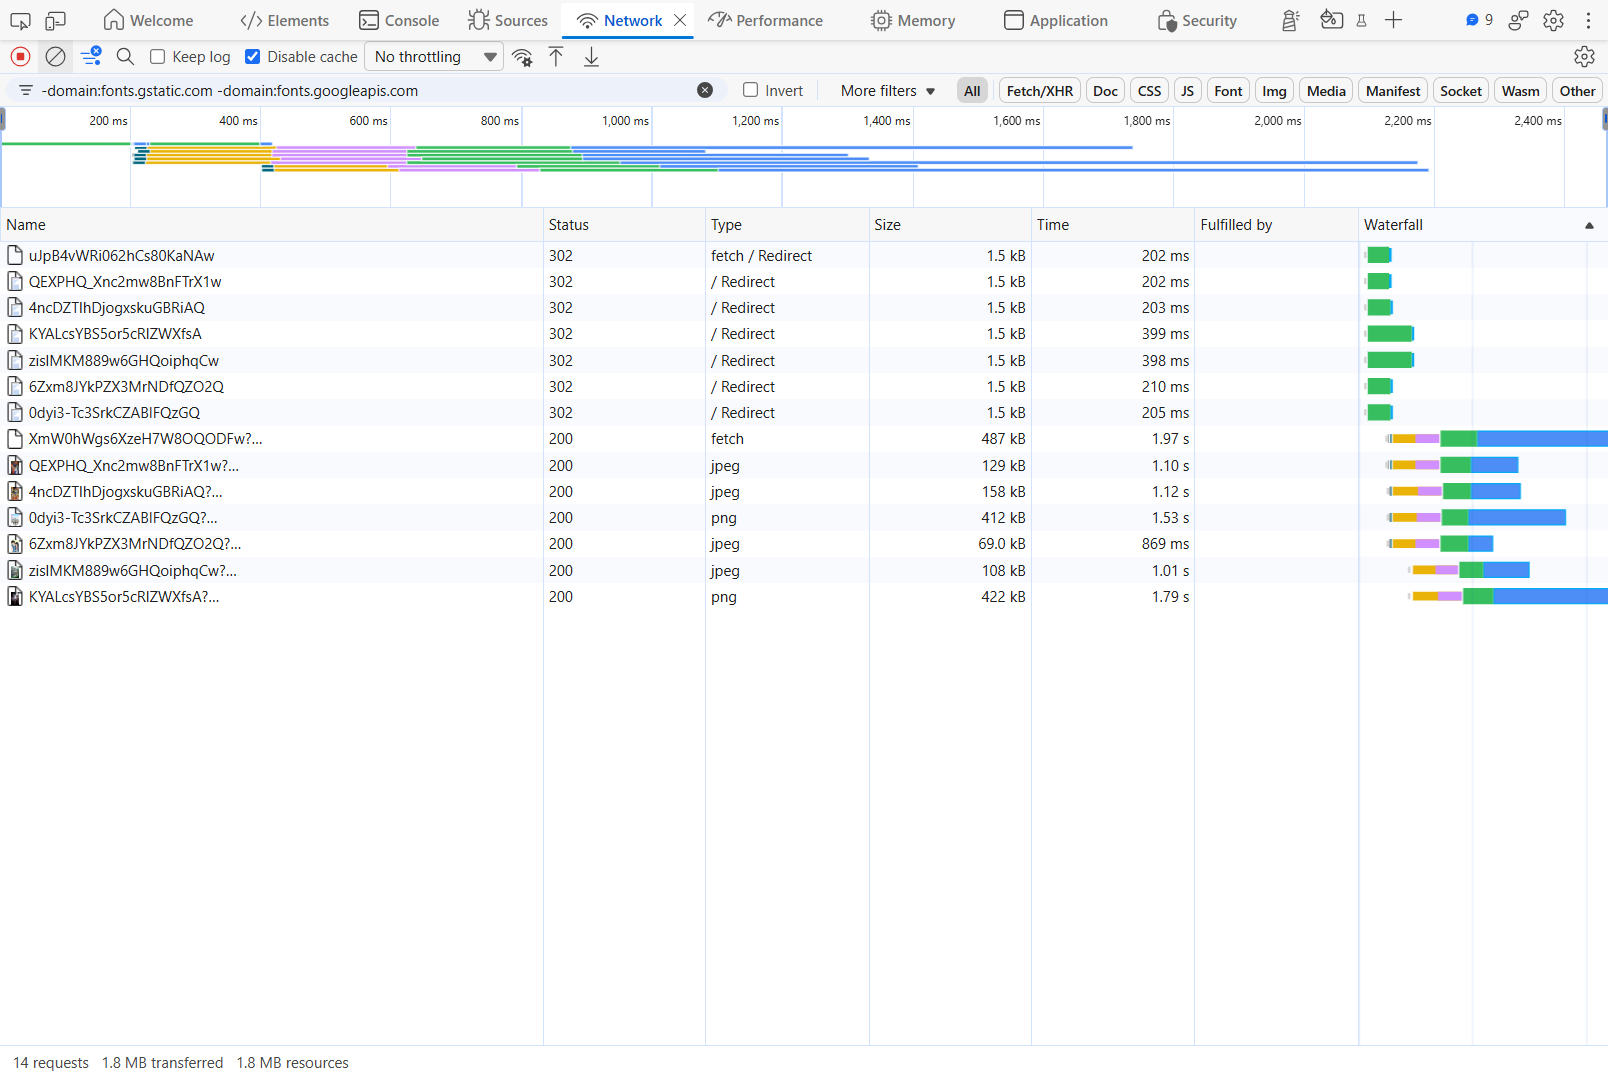
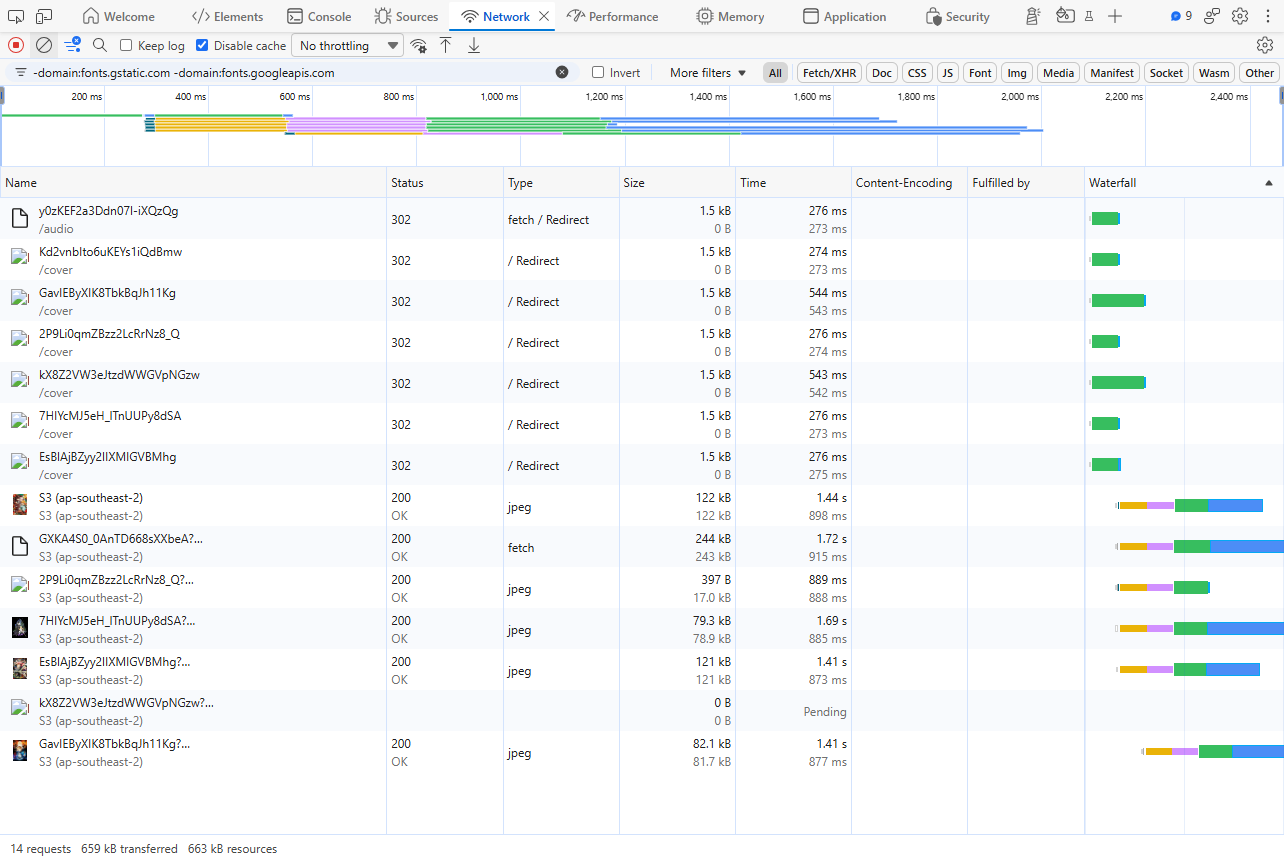
docs(104): recaptured with Content-Encoding column and hidden bucket host; captions fixed after review

diff --git a/docs/performance.md b/docs/performance.md
@@ -1,7 +1,7 @@
 # SongRush 성능 보고서: 곡 준비 대기 시간
 
 > 순서: **1. 문제 → 2. 측정 방법 → 3. 기준값 → 4. 원인 분석 → 5. 개선 계획 → 6. 개선 기록**
-> 이 문서의 숫자는 모두 `perf/results/`의 결과 파일이나 부록 A의 재현 명령과 그 출력에서 왔습니다. 기준값 측정 시각은 한국 시간 2026-11-09 23:26 ~ 11-10 01:07입니다.
+> 이 문서의 숫자는 모두 `perf/results/`의 결과 파일이나 부록 A의 재현 명령과 그 출력에서 왔습니다. 기준값 측정 시각은 한국 시간 2026-11-09 23:26 ~ 11-10 01:07입니다. 개발자 도구 캡처(캡처 A~D)의 수치는 그 이미지에서 읽은 값입니다.
 
 ---
 
@@ -31,15 +31,17 @@
 
 *그림 1. 객관식 방의 곡 준비 화면(실제 사이트, baseline-2). 음원을 받는 동안 보기 표지 6칸이 비어 있습니다.*
 
-같은 순간을 브라우저 개발자 도구(F12 → Network)로 보면 이렇습니다.
+브라우저 개발자 도구(F12 → Network)로 보면 이렇습니다.
 
-![같은 순간의 게임 화면](../perf/results/shots/2026-11-10-game-choice-loading.png)
-![같은 순간의 개발자 도구 Network 탭: 표지는 거의 다 받았지만 음원은 3.7 MB 중 487 kB](../perf/results/shots/2026-11-10-devtools-choice-loading.png)
+![게임 화면: 음원을 불러오는 중, 표지 6장 중 4장만 표시](%sgame-choice-loading.png)
+![개발자 도구 Network 탭: 같은 곡의 준비 중](%sdevtools-choice-loading.png)
 
-*캡처 A. 객관식 곡의 준비 중(2026-11-10, 실제 사이트, `perf/devtools_shot.py`).*
-- *위는 게임 화면, 아래는 같은 순간의 Edge 개발자 도구 Network 탭입니다.*
-- *준비 신호 후 약 1.8초 시점에 표지 6장은 대부분 받았지만, 음원(`fetch`, 맨 위 200 행)은 **487 kB**만 받은 상태입니다. 다 받은 크기는 3.7 MB였습니다(캡처 B).*
-- *이름 칸의 긴 문자열은 일회용 다운로드 주소입니다. 서명 부분(`?` 뒤)은 캡처 전에 지웠습니다.*
+*캡처 A. 객관식 곡의 준비 중(2026-11-10 10:00 KST, 실제 사이트, `perf/devtools_shot.py`). 위는 게임 화면, 아래는 그 직후의 Edge 개발자 도구 Network 탭입니다.*
+- *게임 시작 후 약 2.4초 시점입니다. 표지는 4장을 받았고 2장은 아직 받는 중이라, 게임 화면에서도 2칸이 비어 있습니다.*
+- *음원(Type `fetch`, Status 200인 행)은 3.5 MB 중 **244 kB**만 받은 상태입니다. 다 받는 데는 9.24초가 걸렸습니다(캡처 B).*
+- *위 7행(Status 302)은 사이트 서버가 음원·표지마다 일회용 S3 주소로 돌려보내는 응답입니다. 이것만으로 요청마다 0.27~0.54초가 걸립니다(4.2).*
+- *이름 칸의 서명 부분(`?` 뒤)과 저장소 주소(`S3 (ap-southeast-2)`로 표시)는 캡처 전에 가렸습니다.*
+- *그림 1(baseline-2)은 표지가 아직 하나도 뜨지 않은 더 이른 순간입니다. 캡처 A처럼 표지가 먼저 뜨고, 그 뒤에도 음원 때문에 기다리는 경우가 많습니다(4.1).*
 
 이 대기 시간이 실제로 얼마나 되는지, 무엇 때문에 생기는지를 측정과 증거로 정리합니다.
 
@@ -86,7 +88,8 @@
 - **측정 화면 캡처:** `perf/devtools_shot.py`가 실제 Edge 개발자 도구(Network 탭)를 열고 첫 화면 로딩, 객관식 1곡, 채팅 1곡을 진행하며 화면을 그대로 찍습니다(캡처 A~D).
   - 곡 캡처는 게임 시작 직전에 Network 기록을 비워 **그 곡의 요청만** 보이게 했습니다. 글꼴 요청은 필터로 뺐습니다.
   - 찍기 전에 화면의 서명 부분을 지우고, 찍은 뒤 화면 글자를 다시 검사해 서명이 하나라도 있으면 그 이미지를 버리고 다시 찍습니다.
-  - 캐시를 끈 상태(`Disable cache`)로 찍어서, 다시 받는 경우의 실제 전송량이 보입니다.
+  - 캐시를 끈 상태(`Disable cache`)로 찍습니다. 처음 방문한 사람이 받는 양이 그대로 보입니다.
+  - 저장소(S3) 주소에는 AWS 계정 번호가 들어 있어서, 화면에서 `S3 (ap-southeast-2)`로 바꾼 뒤 찍습니다.
 
 다시 재는 법은 부록 A에 있습니다.
 
@@ -166,16 +169,22 @@
 
 개발자 도구로 직접 본 곡 하나도 같습니다.
 
-![개발자 도구: 객관식 곡 완료](../perf/results/shots/2026-11-10-devtools-choice-done.png)
+![개발자 도구: 객관식 곡 완료](%sdevtools-choice-done.png)
 
-*캡처 B. 객관식 곡 하나를 다 받은 시점(2026-11-10). 음원 **3.7 MB에 7.53초**, 표지 6장(69~422 kB)은 **0.87~1.79초**입니다. 하단 합계는 14개 요청, 5,056 kB입니다.*
+*캡처 B. 캡처 A와 같은 곡을 다 받은 시점(2026-11-10 10:00 KST).*
+- *음원 **3.5 MB에 9.24초**가 걸려 가장 늦게 끝납니다. 표지 6장(79~136 kB)은 1.41~5.49초에 끝납니다.*
+- *하단 합계는 14개 요청, 4,158 kB입니다("14 / 15"의 15는 필터로 숨긴 요청까지 센 수입니다).*
+- *Size 칸의 두 줄은 위가 전송 크기, 아래가 원본 크기입니다. Time 칸의 아래 줄은 첫 응답까지의 시간입니다. 음원은 0.9초 만에 응답이 시작됐지만, 다 받는 데 9초가 넘게 걸렸습니다. 즉 **응답 대기가 아니라 내려받는 양**이 문제입니다.*
 
-![개발자 도구: 채팅 곡 완료](../perf/results/shots/2026-11-10-devtools-chat-done.png)
+![개발자 도구: 채팅 곡 완료](%sdevtools-chat-done.png)
 
-*캡처 C. 채팅 곡 하나(2026-11-10). 표지 없이 음원 **3.5 MB에 8.91초**입니다. 표지가 없어도 음원 하나가 대기 시간을 정합니다.*
+*캡처 C. 채팅 곡 하나(2026-11-10 10:01 KST). 표지 없이 음원 **3.7 MB에 10.05초**입니다. 표지가 없어도 음원 하나가 대기 시간을 정합니다.*
+
+*캡처 A~C는 각각 곡 1개를 한 번 잰 것으로, 3장의 기준값 표에는 들어가지 않습니다. 캐시를 끈 상태(처음 받는 경우)입니다.*
 
 ### 4.2 서버와 저장소가 멀다 (속도의 상한)
 - **위치와 속도:** 음원과 표지는 **호주 시드니 S3**에서 직접 받습니다. 곡별 음원 수신 속도는 0.09~0.91 MB/s였고, 중앙값은 채팅 0.46, 객관식 0.47 MB/s입니다(부록 A-4). 사이트 서버까지는 TCP 연결에만 0.2초 이상 걸립니다(부록 A-3).
+- **리다이렉트 왕복:** 음원과 표지는 매번 사이트 서버(시드니)에 먼저 요청해 일회용 S3 주소를 받고(302), 그다음 S3에서 받습니다. 이 한 번에 요청마다 0.27~0.54초가 듭니다(캡처 A의 위 7행).
 - **바꾸기 어려운 이유:** 계정 지역이 시드니로 고정돼 있고, CloudFront는 쓰지 않기로 이미 결정했습니다(D-110).
 - **그래서:** **보내는 양을 줄이는 것**이 현실적인 첫 대응입니다.
 
@@ -202,9 +211,12 @@
 - **압축하면:** 같은 JS를 gzip으로 압축하면 **115 KB**입니다(부록 A-3).
 - **영향 범위:** 첫 화면 로딩(1.8~3.9초)에만 영향을 주고, 게임 중 대기에는 영향이 없습니다.
 
-![개발자 도구: 첫 화면 로딩](../perf/results/shots/2026-11-10-devtools-pageload.png)
+![개발자 도구: 첫 화면 로딩](%sdevtools-pageload.png)
 
-*캡처 D. 캐시를 끄고 본 첫 화면 로딩(2026-11-10). `index-BL8wr47a.js`가 **368 kB 그대로** 옵니다(압축됐다면 약 115 kB). 글꼴(Google Fonts)은 압축돼 와서, 전체로는 전송 965 kB, 원본 1.5 MB입니다. 로딩 완료(Load)는 1.72초입니다.*
+*캡처 D. 캐시를 끄고 본 첫 화면 로딩(2026-11-10 09:59 KST). 글꼴 파일 행은 필터로 숨겼습니다.*
+- *`index-BL8wr47a.js`는 전송 **368 kB**, 원본 367 kB로 거의 같고, **Content-Encoding 칸이 비어 있습니다**. 즉 압축 없이 옵니다.*
+- *같은 화면의 Google Fonts 스타일시트(`css2`)는 Content-Encoding이 **gzip**이고, 전송 173 kB, 원본 737 kB입니다. 압축하면 이렇게 줄어든다는 비교입니다.*
+- *이 실행에서는 문서(`animeopguessr.com`) 응답이 14.7초로 비정상적으로 느렸습니다. 같은 시각 `curl`로는 0.83~0.90초였으므로, 측정 브라우저 쪽 지연으로 보고 로딩 시간 수치로는 쓰지 않습니다. 첫 화면 로딩 시간은 3장의 측정값(1.8~3.9초)을 씁니다.*
 
 ### 4.6 원인 요약
 | 원인 | 영향 | 근거 |
@@ -296,6 +308,9 @@ curl -s -D - -o /dev/null -H "Accept-Encoding: gzip, br" https://animeopguessr.c
 curl -s https://animeopguessr.com/assets/index-BL8wr47a.js -o live.js && wc -c < live.js && gzip -9 -c live.js | wc -c
 # 366957
 # 115065
+for i in 1 2 3; do curl -s -o /dev/null -H "Cache-Control: no-cache" -w "doc %{http_code} total %{time_total}s
+" https://animeopguessr.com/; done
+# (2026-11-10 10:0x KST, 캡처 D 직후) doc 200 total 0.895040s / 0.827500s / 0.849246s
 ```
 
 ### A-4. 20곡 합산, 곡별 수신 속도, 체감 대기

diff --git a/BACKLOG.md b/BACKLOG.md
@@ -504,6 +504,7 @@ Decided:
 - **D-032** Fresh documents (user, 2026-11-02): delete every earlier design, research and planning document, because their standards came partly from the TypeScript attempt. Keep only the user's game-rule decisions above, the raw API fixtures (`data/tests/fixtures/`) and the vibe-cycle tooling. Research and design restart as S-001..S-003.
 
 ## Follow-ups
+- (104) In a choice room the stage hint still says to answer by chat (`GameScreen.jsx` uses `t('stage.hint')` for both formats). Add a choice-room hint in ko/en/ja; it is visible in the portfolio captures.
 - (103) Before any performance improvement, run 2 more baselines around 11 pm KST (`perf/run.py --label baseline-4/5`), so the slow case has 3 or more samples (docs/performance.md 3.2).
 
 - **098 M1** `GameScreen.jsx:122-126`: the reveal card still changes height when alternate titles, song or artists are missing; render those rows always (empty when absent) at their fixed heights if the owner wants the card fully fixed.
